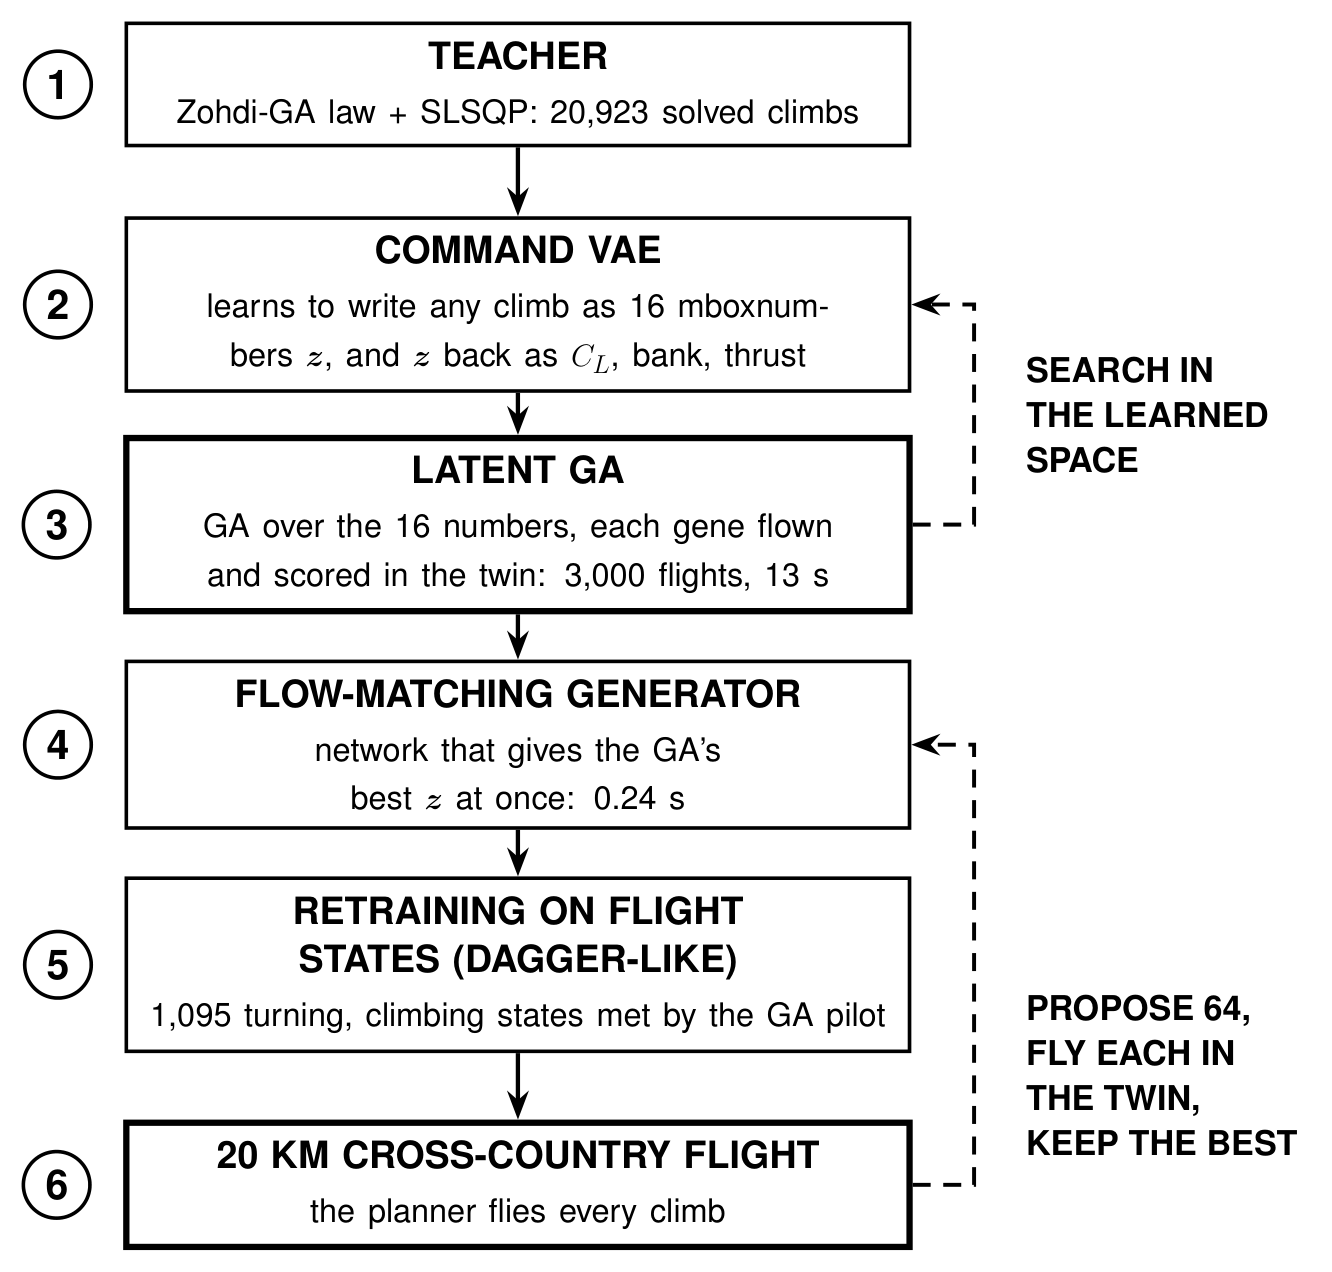
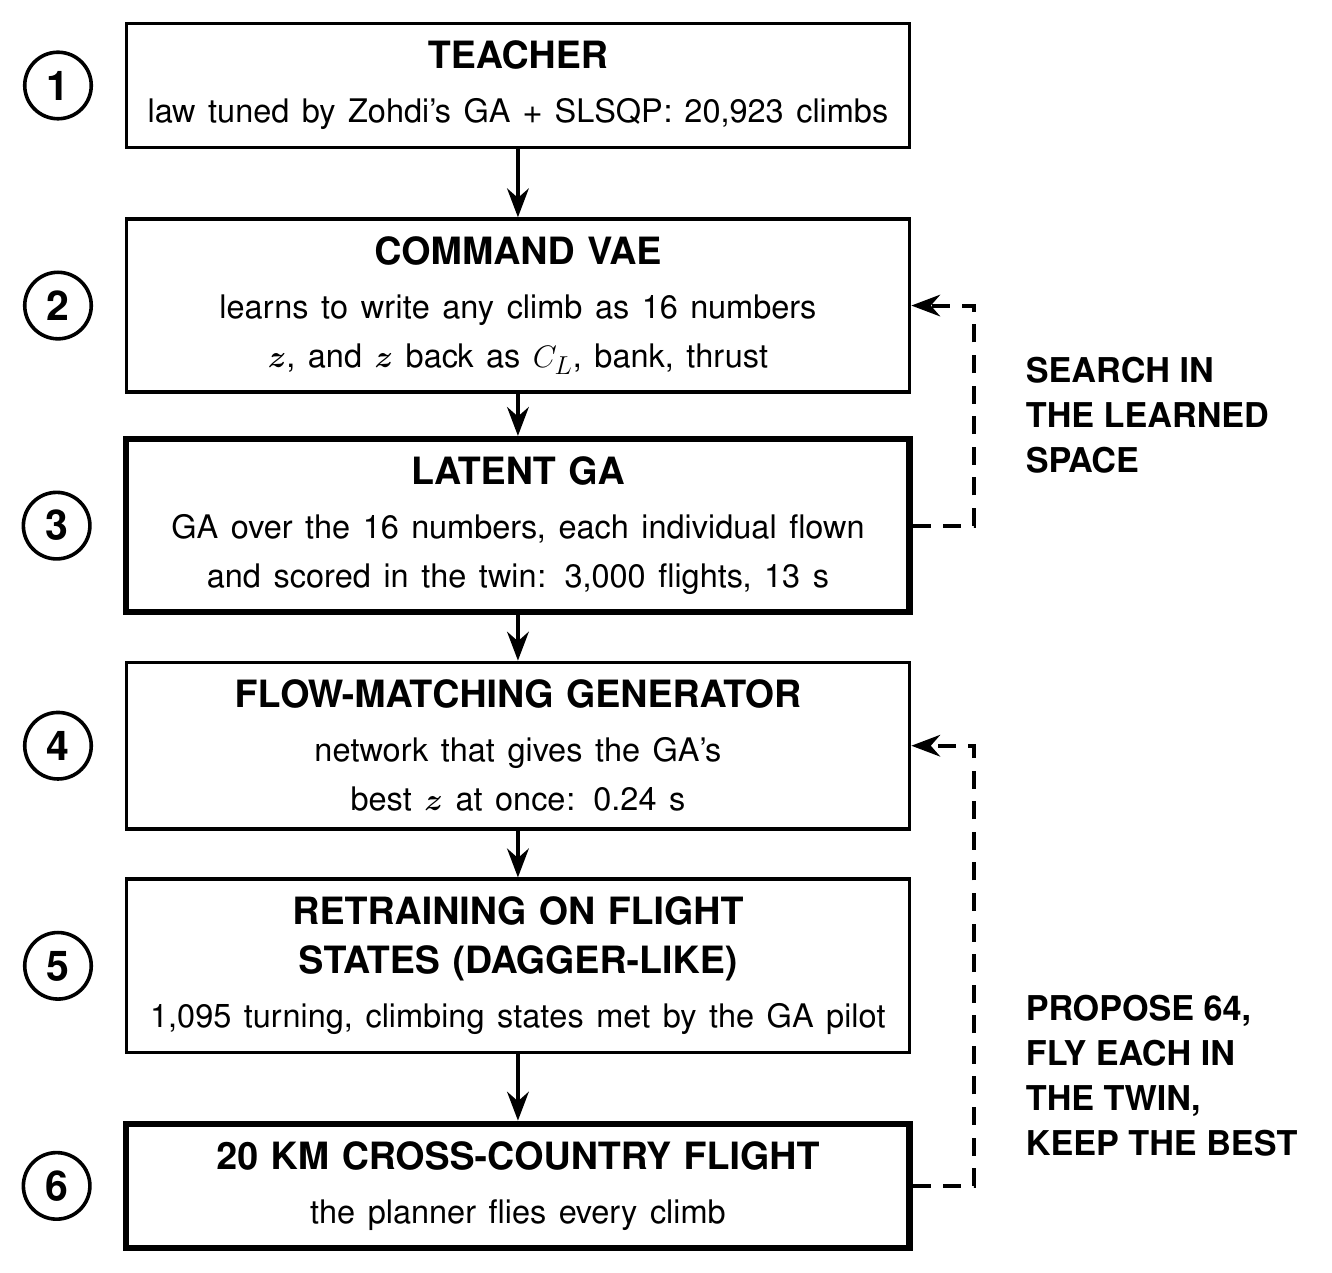
Docs: cross-country GA budget, 56x and +70% on the right pairs, DAgger-like wording, pipeline figure typo

diff --git a/docs/index.html b/docs/index.html
@@ -87,7 +87,7 @@ footer { font-size: 14px; color: var(--muted); border-top: 1px solid var(--line)
     <p class="eyebrow">Simulation study · SB-XC sailplane · since October 2026</p>
     <h1>GeneticWing: a soaring planner for a fixed-wing UAV</h1>
     <p class="lede">A simulated sailplane plans each thermal climb with a generator distilled from a genetic search in a
-      learned command space. It climbs 70 % faster than a classic circling rule, in 0.24 s per plan, and now flies
+      learned command space. It climbs 70 % faster than a classic circling rule on tasks it never trained on, in 0.24 s per plan, and now flies
       in thermals built from a real weather forecast.</p>
     <nav class="links" aria-label="Project links">
       <a class="primary" href="https://github.com/clementdumeril/GeneticWing">Code on GitHub</a>
@@ -107,7 +107,7 @@ footer { font-size: 14px; color: var(--muted); border-top: 1px solid var(--line)
 
   <div class="stats" role="list">
     <div class="stat" role="listitem"><b>2.23 <small>m/s</small></b><span>mean climb of the distilled generator on 64 tasks of 20 km, against 1.29 m/s for the circling rule</span></div>
-    <div class="stat" role="listitem"><b>0.24 <small>s</small></b><span>per climb plan, against about 13 s for the genetic search it imitates</span></div>
+    <div class="stat" role="listitem"><b>0.24 <small>s</small></b><span>per climb plan, against 13.4 s for the genetic search it imitates</span></div>
     <div class="stat" role="listitem"><b>2.21 <small>m/s</small></b><span>on 64 new tasks that no training step has seen (circling rule: 1.30 m/s)</span></div>
   </div>
 
@@ -118,8 +118,8 @@ footer { font-size: 14px; color: var(--muted); border-top: 1px solid var(--line)
         A slow offline teacher solves thousands of single-thermal climbs. A variational autoencoder learns its commands
         (lift coefficient, bank, thrust) and its decoder flies them through a point-mass simulator, so every sample
         respects the aircraft's limits. A genetic algorithm searching that latent space beats the teacher; a flow
-        matching model distills the search into a 0.24 s generator, retrained once on the states met in flight
-        (DAgger). A MacCready tactician picks the thermals; the planner flies every climb.</p>
+        matching model distills the search into a 0.24 s generator, retrained once on the states the search met in flight
+        (DAgger-like). A MacCready tactician picks the thermals; the planner flies every climb.</p>
     </div>
     <figure>
       <img src="figures/pipeline.png" alt="The GeneticWing chain in six stages: a teacher solves 20,923 climbs; a command VAE writes each climb as 16 numbers; a GA searches those numbers in the simulator; a flow-matching generator learns the GA's answers; it is retrained on the states met in flight; in a 20 km flight it proposes 64 climbs, flies each in the simulator and keeps the best">
@@ -138,9 +138,9 @@ footer { font-size: 14px; color: var(--muted); border-top: 1px solid var(--line)
         <tbody>
           <tr><td>Motor all the way</td><td></td><td>29.2</td><td>61.9</td></tr>
           <tr><td>Circling rule</td><td>1.29 / 1.22</td><td>24.9 / 28.3</td><td>2.9 / 19.3</td></tr>
-          <tr><td>Latent GA, about 13 s per plan</td><td>2.08 / 2.07</td><td>28.2 / 29.5</td><td>2.9 / 4.7</td></tr>
+          <tr><td>Latent GA, 1,000 flights per 60 s block</td><td>2.08 / 2.07</td><td>28.2 / 29.5</td><td>2.9 / 4.7</td></tr>
           <tr><td>Generator distilled on single thermals only</td><td>1.50 / 1.17</td><td>25.1 / 28.8</td><td>4.2 / 20.2</td></tr>
-          <tr class="hl"><td>Generator after one DAgger round, 0.24 s</td><td>2.23 / 2.20</td><td>28.5 / 30.2</td><td>2.9 / 4.7</td></tr>
+          <tr class="hl"><td>Generator after one DAgger-like round, 0.24 s</td><td>2.23 / 2.20</td><td>28.5 / 30.2</td><td>2.9 / 4.7</td></tr>
         </tbody>
       </table>
     </div>

diff --git a/docs/figures/pipeline/pipeline_body.tex b/docs/figures/pipeline/pipeline_body.tex
@@ -2,9 +2,9 @@
   \tikzset{st/.style={box, text width=14.6cm}, num/.style={draw=black, line width=2pt, circle,
            minimum size=1.3cm, font=\fontsize{24}{24}\selectfont\lab}}
   \def\d{4.3}
-  \node[st] (a) at (0,0)        {TEACHER\\[3pt]\normalfont\sffamily\fontsize{19}{23}\selectfont Zohdi-GA law + SLSQP: 20,923 solved climbs};
-  \node[st] (b) at (0,-\d)      {COMMAND VAE\\[3pt]\normalfont\sffamily\fontsize{19}{23}\selectfont learns to write any climb as 16 mbox{numbers} \mbox{$\bm z$}, and \mbox{$\bm z$} back as $C_L$, bank, thrust};
-  \node[st, line width=3.5pt] (c) at (0,-2*\d) {LATENT GA\\[3pt]\normalfont\sffamily\fontsize{19}{23}\selectfont GA over the 16 numbers, each gene flown and scored in the twin: 3,000 flights, 13 s};
+  \node[st] (a) at (0,0)        {TEACHER\\[3pt]\normalfont\sffamily\fontsize{19}{23}\selectfont law tuned by Zohdi's GA + SLSQP: 20,923 climbs};
+  \node[st] (b) at (0,-\d)      {COMMAND VAE\\[3pt]\normalfont\sffamily\fontsize{19}{23}\selectfont learns to write any climb as 16 \mbox{numbers} \mbox{$\bm z$}, and \mbox{$\bm z$} back as $C_L$, bank, thrust};
+  \node[st, line width=3.5pt] (c) at (0,-2*\d) {LATENT GA\\[3pt]\normalfont\sffamily\fontsize{19}{23}\selectfont GA over the 16 numbers, each individual flown and scored in the twin: 3,000 flights, 13 s};
   \node[st] (d) at (0,-3*\d)    {FLOW-MATCHING GENERATOR\\[3pt]\normalfont\sffamily\fontsize{19}{23}\selectfont network that gives the GA's best \mbox{$\bm z$} at once: 0.24 s};
   \node[st] (e) at (0,-4*\d)    {RETRAINING ON FLIGHT STATES (DAGGER-LIKE)\\[3pt]\normalfont\sffamily\fontsize{19}{23}\selectfont 1,095 turning, climbing states met by the GA pilot};
   \node[st, line width=3.5pt] (f) at (0,-5*\d) {20 KM CROSS-COUNTRY FLIGHT\\[3pt]\normalfont\sffamily\fontsize{19}{23}\selectfont the planner flies every climb};

diff --git a/docs/RESULTS.md b/docs/RESULTS.md
@@ -32,29 +32,30 @@ the climbs. Top: path and the drifting thermals; bottom: altitude against the di
 | --- | --- | --- | --- |
 | Motor all the way | | 29.2 | 61.9 |
 | Circling rule | 1.29 / 1.22 | 24.9 / 28.3 | 2.9 / 19.3 |
-| Latent GA, about 13 s per plan | 2.08 / 2.07 | 28.2 / 29.5 | 2.9 / 4.7 |
+| Latent GA, 1,000 flights per 60 s block | 2.08 / 2.07 | 28.2 / 29.5 | 2.9 / 4.7 |
 | Generator distilled on single-thermal situations only | 1.50 / 1.17 | 25.1 / 28.8 | 4.2 / 20.2 |
-| **Generator after one DAgger round, 0.24 s per plan** | **2.23 / 2.20** | **28.5 / 30.2** | **2.9 / 4.7** |
+| **Generator after one DAgger-like round, 0.24 s per plan** | **2.23 / 2.20** | **28.5 / 30.2** | **2.9 / 4.7** |
 
 One cluster run per row; details in phases 5 and 6 below. Every pilot flies the same tasks with the same tactician
-and autopilot (MacCready 0.5 is the headline setting). At MacCready 1 the DAgger generator is as fast as flying on
+and autopilot (MacCready 0.5 is the headline setting). At MacCready 1 the generator is as fast as flying on
 the motor (30.2 against 29.2 km/h) with 13 times less battery, with no wing-section stall. The single-thermal
 comparison with the teacher and how the chain was found: [`IMPLEMENTATION.md`](IMPLEMENTATION.md).
 
-The DAgger round recorded its states on these same tasks 0-63, so every pilot was flown again on tasks 64-127,
+The DAgger-like round recorded its states on these same tasks 0-63, so every pilot was flown again on tasks 64-127,
 which no training step has seen ([`slurm/heldout_xc.sh`](../slurm/heldout_xc.sh)):
 
 | Climbs (tasks 64-127, MacCready 0.5 / 1) | Mean climb (m/s) | Speed (km/h) | Battery (kJ) | Arrived |
 | --- | --- | --- | --- | --- |
 | Motor all the way | | 29.3 | 64.0 | 100 % |
 | Circling rule | 1.30 / 1.25 | 24.1 / 28.3 | 2.7 / 17.3 | 86 / 98 % |
-| Latent GA, about 13 s per plan | 2.04 / 2.09 | 26.6 / 29.2 | 2.7 / 2.2 | 89 / 95 % |
-| **Generator after one DAgger round, 0.24 s per plan** | **2.21 / 2.22** | **27.8 / 29.6** | **2.7 / 2.7** | **92 / 95 %** |
+| Latent GA, 1,000 flights per 60 s block | 2.04 / 2.09 | 26.6 / 29.2 | 2.7 / 2.2 | 89 / 95 % |
+| **Generator after one DAgger-like round, 0.24 s per plan** | **2.21 / 2.22** | **27.8 / 29.6** | **2.7 / 2.7** | **92 / 95 %** |
 
 The generator keeps its climb rate on the new tasks and is faster than the latent GA on 86 % / 89 % of them, at the
 same energy score (cost +0.015 / −0.002 against the GA). No wing-section stall; at MacCready 1 one flight in 64 breaks
 a constraint margin. Headline ratios used in the README: 2.23 / 1.29 = 1.7 times the circling rule's climb rate;
-13.4 s (phase 6) / 0.24 s = about 50 times faster planning.
+13.4 s (phase 6, single thermal, 3,000 flights) / 0.24 s = 56 times faster planning; 2.21 / 1.30 = +70 % on the
+unseen tasks.
 
 ## Phase 1: simulation foundation
 
@@ -618,14 +619,14 @@ flight propose and verify. The generator is learned on S1 situations
 (180-320 m); the cross-country benchmark flies it as the `fast` pilots
 (`--flow`), where climbs reach 600 m.
 
-### The generator in flight: a DAgger round
+### The generator in flight: a DAgger-like round
 
 Flown on the 64 tasks of 20 km, that first generator kept little of the GA's
 lead: climbs at 1.50 and 1.17 m/s (MacCready 0.5 and 1) against 2.08 and 2.07
 for the GA. It had learned level starts at 180-320 m, while a climb is
 replanned in a turn, up to 600 m, and its condition did not even hold the
 current bank. `bash slurm/submit_all.sh dagger` trains it on the states met in
-flight: the GA flies the tasks with every climb plan it wins recorded
+flight (DAgger-like: the states come from the GA's flights, not from the generator's own): the GA flies the tasks with every climb plan it wins recorded
 (situation, aircraft state, latent point; `phase5_crosscountry.py --record`,
 1,095 plans), the generator is retrained on those plus the 3,000 S1 solutions
 with the aircraft's bank, airspeed and C_L added to its condition
@@ -635,9 +636,9 @@ the three steps).
 | Climbs (64 tasks of 20 km) | Mean climb | Speed | Battery | Time per plan |
 | --- | --- | --- | --- | --- |
 | Circling rule, MacCready 0.5 / 1 | 1.29 / 1.22 m/s | 24.9 / 28.3 km/h | 2.9 / 19.3 kJ | feedback law |
-| Latent GA, MacCready 0.5 / 1 | 2.08 / 2.07 m/s | 28.2 / 29.5 km/h | 2.9 / 4.7 kJ | about 13 s |
+| Latent GA, MacCready 0.5 / 1 | 2.08 / 2.07 m/s | 28.2 / 29.5 km/h | 2.9 / 4.7 kJ | 1,000 flights per block |
 | Generator distilled on S1 only | 1.50 / 1.17 m/s | 25.1 / 28.8 km/h | 4.2 / 20.2 kJ | 0.24 s |
-| **Generator after the DAgger round** | **2.23 / 2.20 m/s** | **28.5 / 30.2 km/h** | **2.9 / 4.7 kJ** | **0.24 s** |
+| **Generator after the DAgger-like round** | **2.23 / 2.20 m/s** | **28.5 / 30.2 km/h** | **2.9 / 4.7 kJ** | **0.24 s** |
 
 After one round the generator climbs as fast as the GA it imitates, and
 slightly faster (faster than the GA on 84 % and 77 % of the tasks, +0.4 and
@@ -648,13 +649,13 @@ less battery, with no stall and no violation, and it is unchanged on the S1
 test situations (-5.72 against -4.88 for the teacher). The whole chain holds in
 simulated flight: a slow teacher, a command VAE with a physics decoder, a GA in
 its latent space that beats the teacher, a flow matching model distilling the
-GA, and a DAgger round on the states met in flight, for a 0.24 s planner that
-climbs 70 % faster than the circling rule. One run each; thermals are still
+GA, and a DAgger-like round on the states met in flight, for a 0.24 s planner that
+climbs 73 % faster than the circling rule (70 % on the unseen tasks below). One run each; thermals are still
 known exactly on the 20 km tasks.
 
 ### Held-out check: 64 new tasks
 
-The DAgger round recorded its states on tasks 0-63, the very tasks it was then
+The DAgger-like round recorded its states on tasks 0-63, the very tasks it was then
 scored on. `bash slurm/heldout_xc.sh` flies every pilot again on tasks 64-127,
 which no training step has seen (25 minutes):
 
@@ -663,7 +664,7 @@ which no training step has seen (25 minutes):
 | Motor all the way | | 29.3 km/h | 64.0 kJ | 100 % |
 | Circling rule, MacCready 0.5 / 1 | 1.30 / 1.25 m/s | 24.1 / 28.3 km/h | 2.7 / 17.3 kJ | 86 / 98 % |
 | Latent GA, MacCready 0.5 / 1 | 2.04 / 2.09 m/s | 26.6 / 29.2 km/h | 2.7 / 2.2 kJ | 89 / 95 % |
-| **Generator after the DAgger round** | **2.21 / 2.22 m/s** | **27.8 / 29.6 km/h** | **2.7 / 2.7 kJ** | **92 / 95 %** |
+| **Generator after the DAgger-like round** | **2.21 / 2.22 m/s** | **27.8 / 29.6 km/h** | **2.7 / 2.7 kJ** | **92 / 95 %** |
 
 The generator keeps its climb rate: 2.21 against 1.30 m/s for the circling
 rule (+70 %), still above the GA, which it outpaces on 86 % and 89 % of the

diff --git a/README.md b/README.md
@@ -13,9 +13,9 @@ GeneticWing plans every thermal climb of a simulated sailplane flying cross-coun
 - It climbs 1.7 times faster than the standard circling rule: 2.23 against 1.29 m/s on 64 simulated 20 km flights,
   with the same tactician choosing the thermals.
 - It keeps the gain on 64 tasks no training step has seen: 2.21 against 1.30 m/s.
-- It plans a climb in 0.24 s, about 50 times faster than the genetic search it was distilled from (about 13 s).
+- It plans a climb in 0.24 s, 56 times faster than the genetic search it was distilled from (13.4 s per climb).
 
-Chain: teacher, command VAE, genetic search in the VAE's latent space, flow-matching generator, one DAgger round. It
+Chain: teacher, command VAE, genetic search in the VAE's latent space, flow-matching generator, one DAgger-like round. It
 extends ARPL's flatness-based glide planning (Morando et al., [ICRA 2025](https://arxiv.org/abs/2502.00581)) from
 gliding to soaring. Simulation only; the thermals are known.
 
@@ -32,7 +32,7 @@ gliding to soaring. Simulation only; the thermals are known.
   decoder flies them through a point-mass simulator, so every sample respects the aircraft's limits.
 - A genetic algorithm searching those 16 numbers beats the teacher, but takes about 13 s per climb.
 - A flow-matching generator learns the search's answers. In flight it proposes 64 climbs, flies each in the
-  simulator and keeps the best, in 0.24 s. One DAgger round retrains it on the states met in flight.
+  simulator and keeps the best, in 0.24 s. One DAgger-like round retrains it on 1,095 states the genetic search met in flight.
 - A MacCready tactician picks the thermals; the planner flies every climb. The autopilot keeps every wing section
   below 90 % of its stall.
 

diff --git a/docs/IMPLEMENTATION.md b/docs/IMPLEMENTATION.md
@@ -9,8 +9,8 @@ and required thrust without integration, so a population is scored in one vector
 definitions follow Morando et al. (ARPL); one baseline GA follows the scheme of T. Zohdi's course. On the raw
 trajectory parameters the GA is the weakest working planner (phase 2). It becomes the best planner once it searches
 the latent space of a VAE whose decoder outputs bounded commands (C_L, bank, thrust at 61 knots) and flies them
-through a simulator; a flow matching model then distills it into a fast generator, retrained once with DAgger on
-the states met in flight.
+through a simulator; a flow matching model then distills it into a fast generator, retrained once (DAgger-like) on
+the states the GA met in flight.
 
 ## Components
 
@@ -59,7 +59,7 @@ line out of the thermal. Made with `scenarios/phase3_student.py`.*
 5. Without the inner-wing protection in the autopilot, 19 to 69 % of the GA's flights stalled a wing section; with
    it none do, and the GA keeps its lead (2.08 against 2.09 m/s at MacCready 0.5).
 6. The first distilled generator, trained only on level starts at 180 to 320 m, lost most of the GA's lead in
-   flight; one DAgger round on 1,095 plans recorded in flight recovered it.
+   flight; one DAgger-like round on 1,095 plans the GA recorded in flight recovered it.
 
 ## Check against flight data
 
